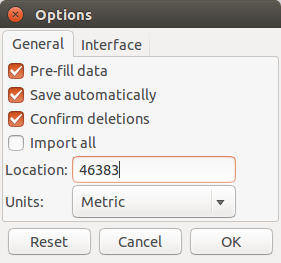
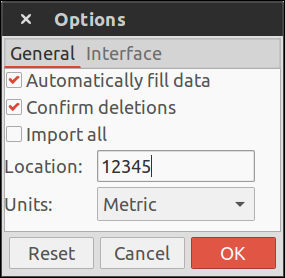
Added option for truncating notes; simplified dialog parameters and removed unnecessary export; fixed issues with note field not truncating.

diff --git a/weatherlog.py b/weatherlog.py
@@ -105,7 +105,6 @@ from weatherlog_resources.dialogs.options_dialog import OptionsDialog
 from weatherlog_resources.dialogs.chart_dialog import GenericChartDialog
 from weatherlog_resources.dialogs.graph_dialog import GenericGraphDialog
 from weatherlog_resources.dialogs.data_subset_selection_dialog import DataSubsetSelectionDialog
-from weatherlog_resources.dialogs.data_subset_dialog import DataSubsetDialog
 from weatherlog_resources.dialogs.import_selection_dialog import ImportSelectionDialog
 from weatherlog_resources.dialogs.location_dialog import LocationDialog
 from weatherlog_resources.dialogs.weather_dialog import CurrentWeatherDialog
@@ -1433,8 +1432,7 @@ class WeatherLog(Gtk.Window):
         # Read the data and switch to the other profile.
         self.data = io.read_profile(main_dir = self.main_dir, name = name)
         self.last_profile = name
-        for i in self.data:
-            self.liststore.append(i)
+        self.update_list()
         
         # Update the title and save the data.
         self.update_title()
@@ -1560,8 +1558,7 @@ class WeatherLog(Gtk.Window):
         # Read the data and switch to the new profile.
         self.data = io.read_profile(main_dir = self.main_dir, name = name)
         self.last_profile = name
-        for i in self.data:
-            self.liststore.append(i)
+        self.update_list()
         
         # Update the title.
         self.update_title()
@@ -1677,9 +1674,7 @@ class WeatherLog(Gtk.Window):
             self.data = [x for x in data if x[0] not in ndates]
         
             # Reset the list.
-            self.liststore.clear()
-            for i in self.data:
-                self.liststore.append(i)
+            self.update_list()
         
             # Update the title.
             self.update_title()
@@ -1752,9 +1747,7 @@ class WeatherLog(Gtk.Window):
             self.data = [x for x in data if x[0] not in ndates]
         
             # Reset the list.
-            self.liststore.clear()
-            for i in self.data:
-                self.liststore.append(i)
+            self.update_list()
         
             # Set the new title.
             self.update_title()
@@ -1802,6 +1795,7 @@ class WeatherLog(Gtk.Window):
         show_prefill = opt_dlg.pdl_chk.get_active()
         confirm_exit = opt_dlg.cex_chk.get_active()
         import_all = opt_dlg.imp_chk.get_active()
+        truncate_notes = opt_dlg.trun_chk.get_active()
         graph_color = convert.rgba_to_hex(opt_dlg.graph_color_btn.get_rgba())
         opt_dlg.destroy()
         
@@ -1829,6 +1823,7 @@ class WeatherLog(Gtk.Window):
             show_prefill = True
             confirm_exit = False
             import_all = False
+            truncate_notes = True
             graph_color = "#0000FF"
         
         # Set the configuration.
@@ -1843,6 +1838,7 @@ class WeatherLog(Gtk.Window):
         self.config["show_pre-fill"] = show_prefill
         self.config["confirm_exit"] = confirm_exit
         self.config["import_all"] = import_all
+        self.config["truncate_notes"] = truncate_notes
         self.config["graph_color"] = graph_color
         
         # Configure the units.
@@ -1881,6 +1877,7 @@ class WeatherLog(Gtk.Window):
         
         # Update the title and save the data.
         self.update_title()
+        self.update_list()
         self.save(from_options = True)
     
     
@@ -1911,18 +1908,19 @@ class WeatherLog(Gtk.Window):
         
         # Truncate the note fields before the data is added to the interface.
         new_data = copy.deepcopy(self.data)
-        for row in new_data:
-			note = row[9]
-			newline_split = False
-			if "\n" in note:
-			    note = note.splitlines()[0]
-			    newline_split = True
-			if len(note) > 46:
-			    note = note[0:40] + " [...]"
-			elif newline_split:
-				note = note + " [...]"
-			row[9] = note
-        
+        if self.config["truncate_notes"]:
+            for row in new_data:
+                note = row[9]
+                newline_split = False
+                if "\n" in note:
+                    note = note.splitlines()[0]
+                    newline_split = True
+                if len(note) > 46:
+                    note = note[0:40] + " [...]"
+                elif newline_split:
+                    note = note + " [...]"
+                row[9] = note
+            
         self.liststore.clear()
         for i in new_data:
             self.liststore.append(i)

diff --git a/weatherlog_resources/dialogs/data_subset_dialog.py b/weatherlog_resources/dialogs/data_subset_dialog.py
@@ -13,7 +13,7 @@ import copy
 class DataSubsetDialog(Gtk.Dialog):
     """Shows the data subset dialog."""
     
-    def __init__(self, parent, title, data, show_units, units):
+    def __init__(self, parent, title, data, units, config):
         """Create the dialog."""
         
         # Create the dialog.
@@ -64,7 +64,7 @@ class DataSubsetDialog(Gtk.Dialog):
         self.get_content_area().add(scrolled_win)
         
         # Change the titles, if the user doesn't want units to be displayed.
-        if not show_units:
+        if not config["show_units"]:
             self.temp_col.set_title("Temperature")
             self.prec_col.set_title("Precipitation")
             self.wind_col.set_title("Wind")
@@ -73,17 +73,18 @@ class DataSubsetDialog(Gtk.Dialog):
         
         # Add the data. Truncate the note fields before the data is added to the interface.
         new_data = copy.deepcopy(data)
-        for row in new_data:
-			note = row[9]
-			newline_split = False
-			if "\n" in note:
-			    note = note.splitlines()[0]
-			    newline_split = True
-			if len(note) > 46:
-			    note = note[0:40] + " [...]"
-			elif newline_split:
-				note = note + " [...]"
-			row[9] = note
+        if config["truncate_notes"]:
+            for row in new_data:
+                note = row[9]
+                newline_split = False
+                if "\n" in note:
+                    note = note.splitlines()[0]
+                    newline_split = True
+                if len(note) > 46:
+                    note = note[0:40] + " [...]"
+                elif newline_split:
+                    note = note + " [...]"
+                row[9] = note
         
         self.liststore.clear()
         for i in new_data:

diff --git a/weatherlog_resources/dialogs/options_dialog.py b/weatherlog_resources/dialogs/options_dialog.py
@@ -110,16 +110,22 @@ class OptionsDialog(Gtk.Dialog):
         self.cex_chk.set_active(config["confirm_exit"])
         opt_grid3.attach(self.cex_chk, 0, 4, 2, 1)
         
+        # Create the truncate notes checkbox.
+        self.trun_chk = Gtk.CheckButton("Truncate notes")
+        self.trun_chk.set_tooltip_text("Display the Notes field in a truncated form for long entries.")
+        self.trun_chk.set_active(config["truncate_notes"])
+        opt_grid3.attach(self.trun_chk, 0, 5, 2, 1)
+        
         # Create the graph color selector.
         graph_color_lbl = Gtk.Label("Graph color: ")
         graph_color_lbl.set_alignment(0, 0.5)
         graph_color_lbl.set_tooltip_text("Select the color used for the graphs.")
-        opt_grid3.attach(graph_color_lbl, 0, 5, 1, 1)
+        opt_grid3.attach(graph_color_lbl, 0, 6, 1, 1)
         self.graph_color_btn = Gtk.ColorButton()
         color_rgba = convert.hex_to_rgba(config["graph_color"])
         default_color = Gdk.RGBA(red = color_rgba[0], green = color_rgba[1], blue = color_rgba[2])
         self.graph_color_btn.set_rgba(default_color)
-        opt_grid3.attach(self.graph_color_btn, 1, 5, 1, 1) #112233
+        opt_grid3.attach(self.graph_color_btn, 1, 6, 1, 1)
         
         # Add the notebook.
         opt_box.add(notebook)

diff --git a/weatherlog_resources/dialogs/data_subset_selection_dialog.py b/weatherlog_resources/dialogs/data_subset_selection_dialog.py
@@ -340,12 +340,12 @@ class DataSubsetSelectionDialog(Gtk.Window):
             return
         
         # Show the subset.
-        sub_dlg = DataSubsetDialog(self, "Data Subset - %s" % self.last_profile, filtered, self.config["show_units"], self.units)
+        sub_dlg = DataSubsetDialog(self, "Data Subset - %s" % self.last_profile, filtered, self.units, self.config)
         response = sub_dlg.run()
         sub_dlg.destroy()
         
         # If the user clicked Export:
-        if response == 9:
+        if response == DialogResponse.EXPORT:
             
             # Get the filename and export the info.
             response2, filename = show_export_dialog(self, "Export Data Subset - %s" % self.last_profile)

diff --git a/weatherlog_resources/launch.py b/weatherlog_resources/launch.py
@@ -203,6 +203,7 @@ def get_config(conf_dir):
                   "show_pre-fill": True,
                   "confirm_exit": False,
                   "import_all": False,
+                  "truncate_notes": True,
                   "graph_color": "#0000FF"}
     
     return config
